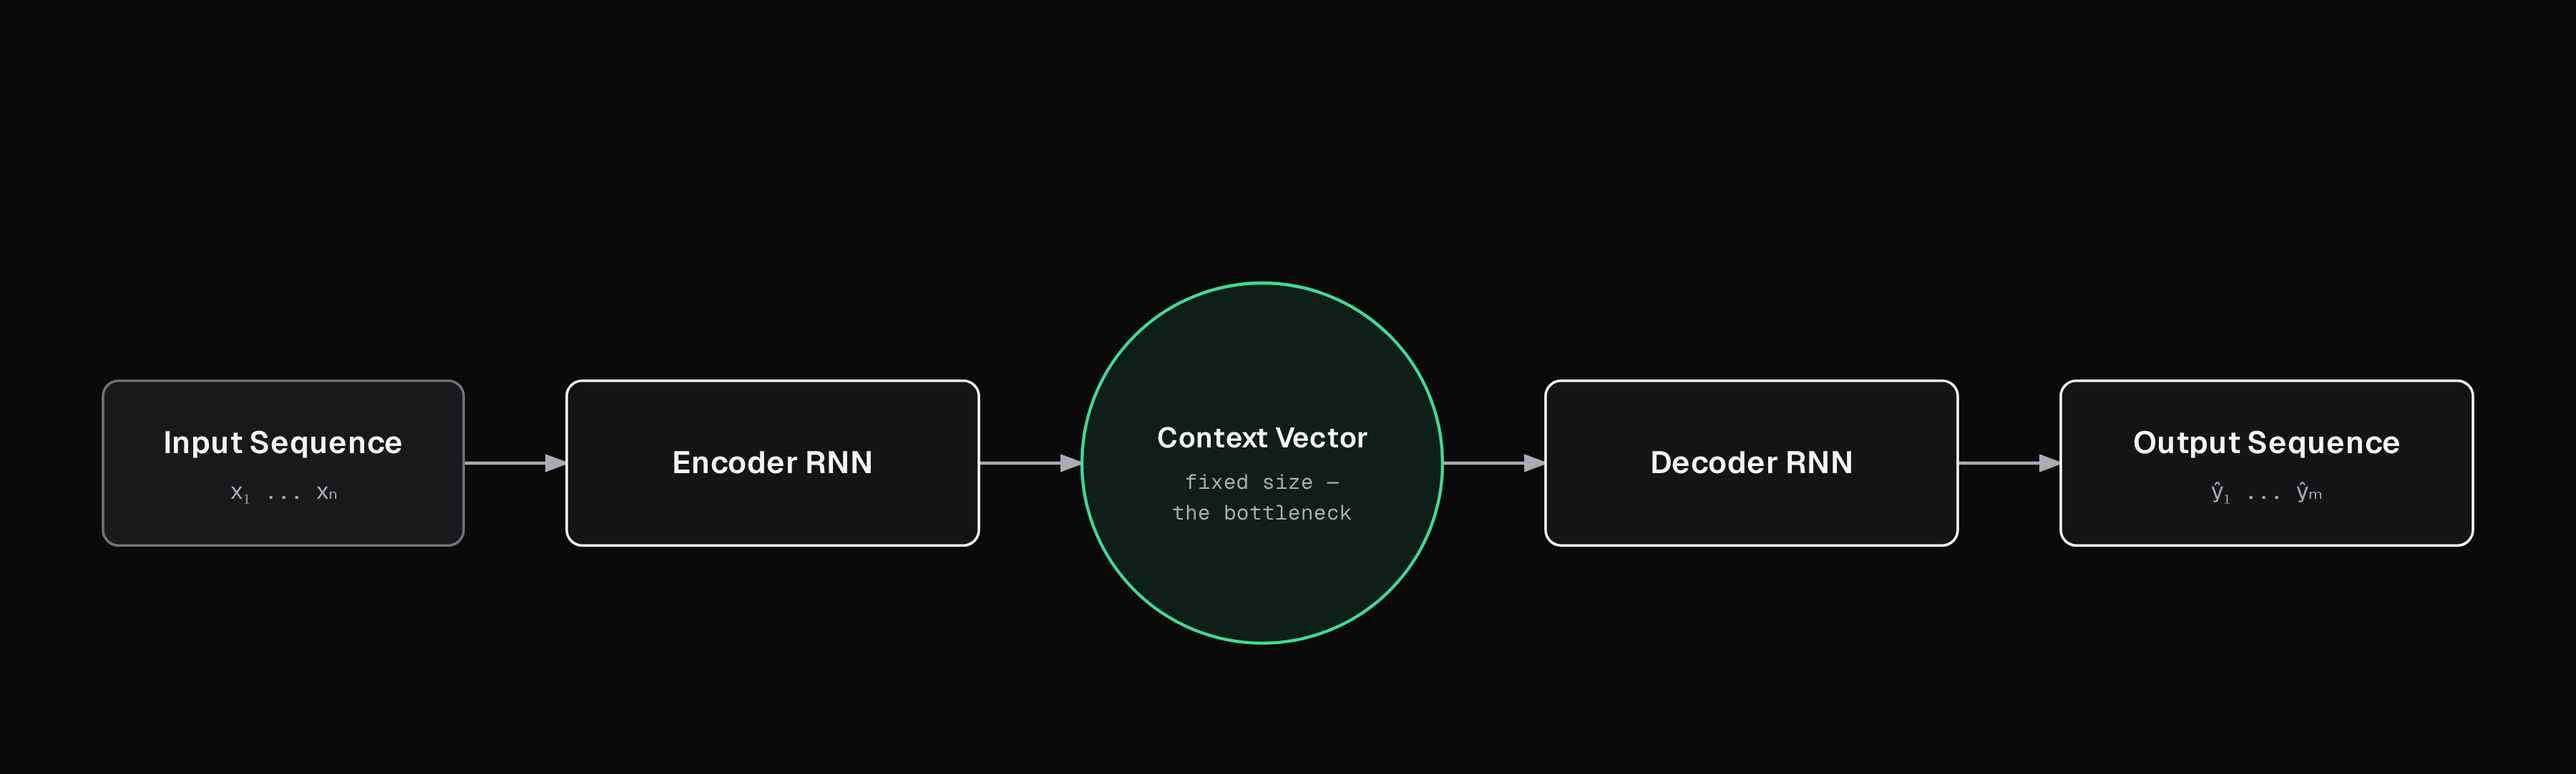
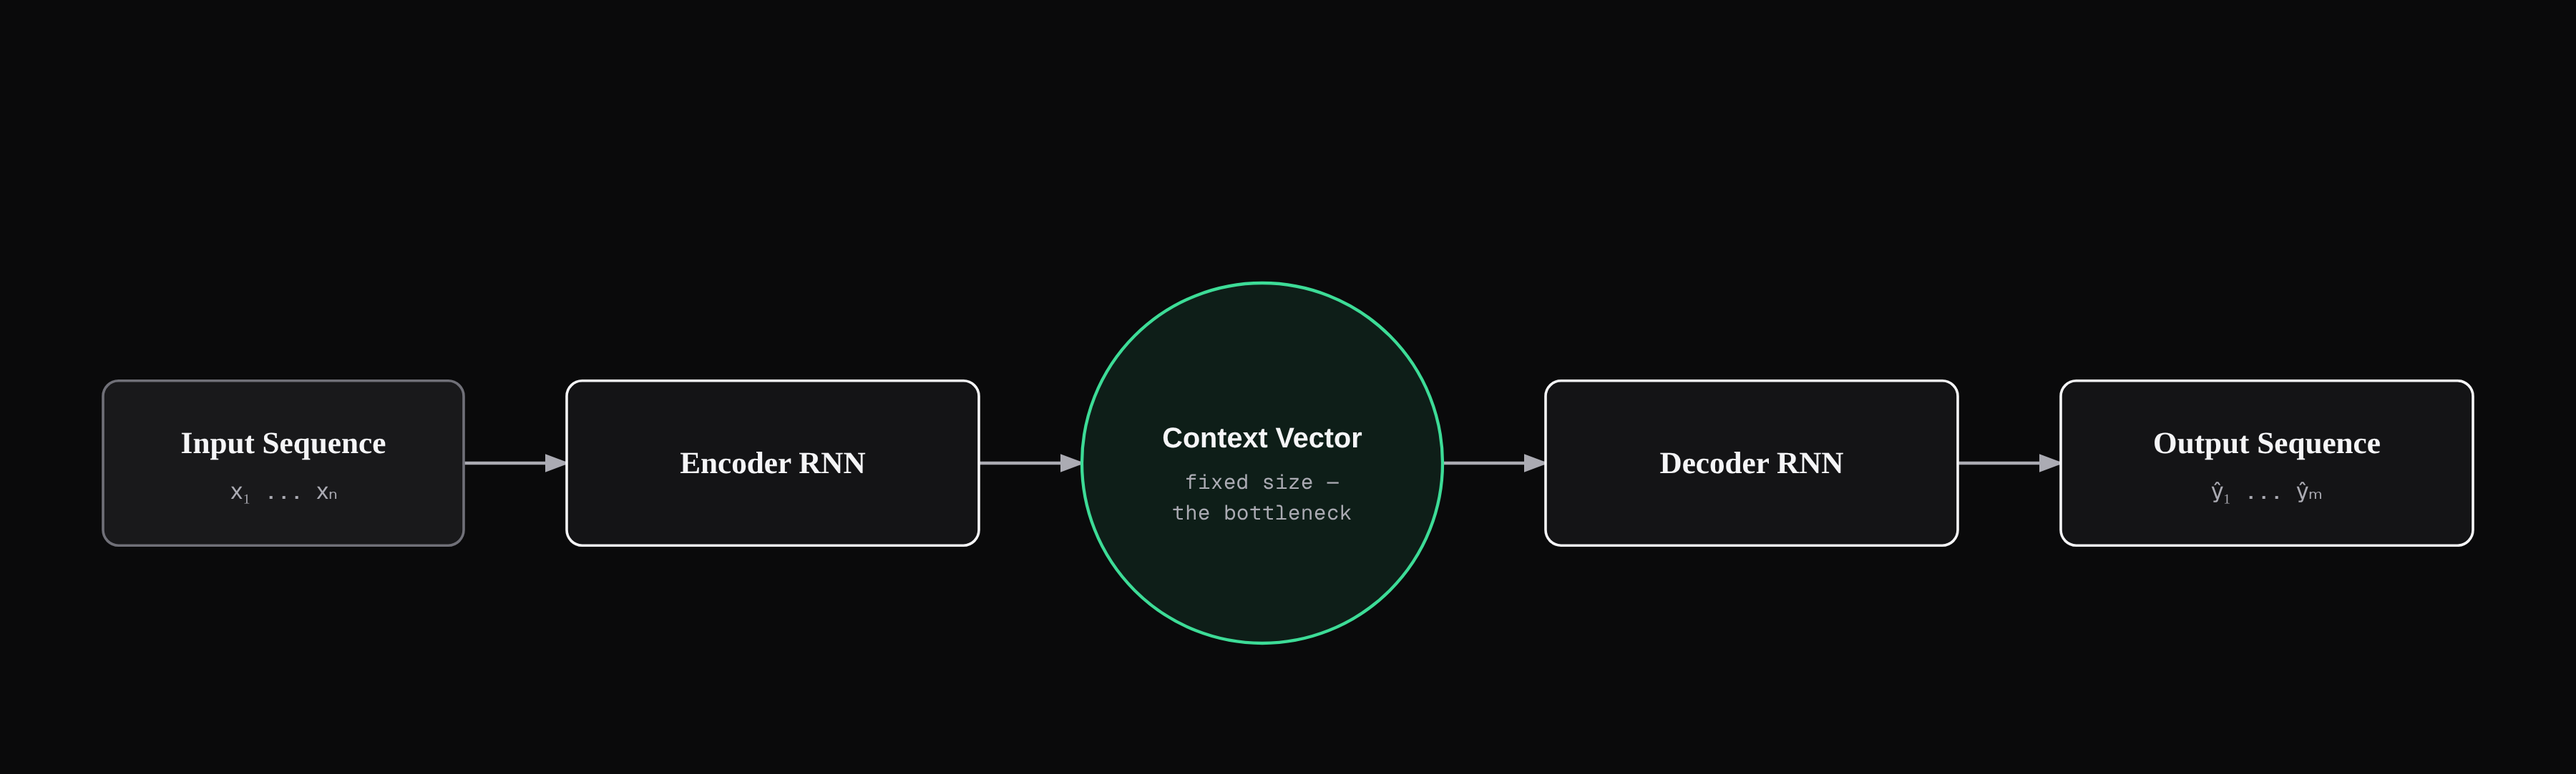
Make every diagram theme-aware via ThemedImage
Diagrams were always rendered on a fixed near-black canvas, so in
light mode (the site's white page) every diagram appeared as a
mismatched solid-black rectangle -- hard to read on an actual
screen, not just a stylistic mismatch. All 15 diagram-design images
now ship light + dark PNGs (generated from the site's own brand
tokens, see neuralmastery-visualize@6c13fdd) and are wired through
Docusaurus's ThemedImage component, so each one matches whichever
theme the reader has active, the same way the rest of the page does.

diff --git a/docs/deep-learning/sequence-models.md b/docs/deep-learning/sequence-models.md
@@ -2,6 +2,18 @@
 sidebar_position: 6
 ---
 
+import ThemedImage from '@theme/ThemedImage';
+import rnnUnrolledDark from './img/rnn-unrolled.png';
+import rnnUnrolledLight from './img/rnn-unrolled-light.png';
+import lstmCellDark from './img/lstm-cell.png';
+import lstmCellLight from './img/lstm-cell-light.png';
+import gruCellDark from './img/gru-cell.png';
+import gruCellLight from './img/gru-cell-light.png';
+import seq2seqEncDecDark from './img/seq2seq-encoder-decoder.png';
+import seq2seqEncDecLight from './img/seq2seq-encoder-decoder-light.png';
+import seq2seqAttnDark from './img/seq2seq-attention.png';
+import seq2seqAttnLight from './img/seq2seq-attention-light.png';
+
 # Sequence Models
 
 Text, audio, time series, DNA — anywhere order carries meaning, you need an architecture that processes sequences, not fixed-size independent inputs.
@@ -31,7 +43,7 @@ $$h_t = \tanh\left(W_h h_{t-1} + W_x x_t + b\right)$$
 
 The same weight matrices $W_h$, $W_x$, $b$ are reused at *every* time step — this weight sharing is what lets an RNN handle sequences of any length with a fixed number of parameters, and it's also exactly why gradients have to flow through so many repeated multiplications during training (below). In principle, this lets information from any earlier point in the sequence influence later predictions.
 
-![RNN unrolled through time — the same cell and weights reused at every step, with the hidden state carried forward](./img/rnn-unrolled.png)
+<ThemedImage alt="RNN unrolled through time — the same cell and weights reused at every step, with the hidden state carried forward" sources={{light: rnnUnrolledLight, dark: rnnUnrolledDark}} />
 
 **The vanishing gradient problem, again**: because the same weights are applied repeatedly across many time steps, gradients during backpropagation-through-time shrink (or explode) even faster than in a deep feedforward network (see [Training Deep Networks](./training-deep-networks.md)). In practice, plain RNNs struggle to remember anything more than ~10-20 steps back.
 
@@ -65,7 +77,7 @@ $$h_t = o_t \odot \tanh(c_t)$$
 
 where $[h_{t-1}, x_t]$ is the previous hidden state concatenated with the current input, and $\odot$ is the **Hadamard (elementwise) product** — each gate is a vector of values in $(0,1)$ that scales its target *elementwise*, not a full matrix multiply. Read the new-cell-state and new-hidden-state lines directly as the whole mechanism: the forget gate decides how much of the old cell state to keep, the input gate decides how much of the new candidate to add — both are $\sigma$-gated so each is a soft "keep this fraction" decision per dimension, computed fresh every time step by the gates above.
 
-![LSTM cell — forget, input, and output gates controlling what's added to, kept in, and read from the cell state](./img/lstm-cell.png)
+<ThemedImage alt="LSTM cell — forget, input, and output gates controlling what's added to, kept in, and read from the cell state" sources={{light: lstmCellLight, dark: lstmCellDark}} />
 
 **GRU (Gated Recurrent Unit)** simplifies LSTM's gating into two gates instead of three (reset and update, no separate cell state), with fewer parameters and often comparable performance — a common practical choice when compute is limited:
 
@@ -87,13 +99,13 @@ $$h_t = (1 - z_t) \odot h_{t-1} + z_t \odot \tilde{h}_t$$
 
 The last line is a direct interpolation between the old hidden state and the new candidate, controlled entirely by $z_t$ — no separate cell state to maintain, which is exactly where GRU's parameter savings come from. The reset gate $r_t$ decides how much of the *old* hidden state gets used when computing the new candidate in the first place.
 
-![GRU cell — a reset gate and an update gate interpolating between the old hidden state and a new candidate](./img/gru-cell.png)
+<ThemedImage alt="GRU cell — a reset gate and an update gate interpolating between the old hidden state and a new candidate" sources={{light: gruCellLight, dark: gruCellDark}} />
 
 ## Sequence-to-Sequence Models
 
 For tasks where both input and output are sequences of different lengths (translation, summarization): an **encoder** RNN compresses the input sequence into a fixed representation, and a **decoder** RNN generates the output sequence from that representation, one token at a time.
 
-![Sequence-to-sequence: an encoder RNN compresses the whole input into one fixed-size context vector, which a decoder RNN then unpacks](./img/seq2seq-encoder-decoder.png)
+<ThemedImage alt="Sequence-to-sequence: an encoder RNN compresses the whole input into one fixed-size context vector, which a decoder RNN then unpacks" sources={{light: seq2seqEncDecLight, dark: seq2seqEncDecDark}} />
 
 **The bottleneck problem**: compressing an entire input sequence into one fixed-size vector loses information, especially for long sequences — no matter how long the input is, it has to fit through that same single vector.
 
@@ -101,7 +113,7 @@ For tasks where both input and output are sequences of different lengths (transl
 
 The direct fix, and the direct predecessor to the Transformer: instead of forcing the encoder to compress everything into one fixed-size context vector, let the decoder look back at *all* encoder hidden states directly, at every output step, weighted by relevance to what it's generating right now.
 
-![Sequence-to-sequence with attention — the decoder computes a fresh weighted combination of every encoder state at each output step, instead of relying on one fixed summary](./img/seq2seq-attention.png)
+<ThemedImage alt="Sequence-to-sequence with attention — the decoder computes a fresh weighted combination of every encoder state at each output step, instead of relying on one fixed summary" sources={{light: seq2seqAttnLight, dark: seq2seqAttnDark}} />
 
 This is the **Bahdanau/Luong attention** mechanism: at each decoder step, score the current decoder state against every encoder state, turn those scores into weights (softmax), and take a weighted sum of the encoder states as that step's context — recomputed fresh every step, so the decoder can effectively "look at" whichever part of the input matters most for the token it's producing right now. This architecture is what proved attention works, before the 2017 "Attention Is All You Need" paper removed the RNN entirely and built a model out of attention alone (see [Attention & Transformers](./attention-transformers.md)).
 

diff --git a/docs/machine-learning/linear-regression.md b/docs/machine-learning/linear-regression.md
@@ -4,6 +4,11 @@ sidebar_position: 4.5
 
 import LinearRegressionStudio from '@site/src/components/viz/LinearRegressionStudio';
 import PredictFirst from '@site/src/components/viz/primitives/PredictFirst';
+import ThemedImage from '@theme/ThemedImage';
+import trainingLoopDark from './img/linear-regression-training-loop.png';
+import trainingLoopLight from './img/linear-regression-training-loop-light.png';
+import twoPathsDark from './img/linear-regression-two-paths.png';
+import twoPathsLight from './img/linear-regression-two-paths-light.png';
 
 # Linear Regression, In Full Depth
 
@@ -128,7 +133,7 @@ $$w \leftarrow w - \alpha \frac{\partial J}{\partial w} \qquad\qquad b \leftarro
 
 where $\alpha$ is the learning rate (see [Calculus & Optimization](../mathematics-for-ai/calculus-optimization.md#gradient-descent-and-its-variants)). The full loop:
 
-![Linear regression gradient descent training loop](./img/linear-regression-training-loop.png)
+<ThemedImage alt="Linear regression gradient descent training loop" sources={{light: trainingLoopLight, dark: trainingLoopDark}} />
 
 Because $J$ is convex, this loop is guaranteed to converge to the global minimum (not just *a* minimum) as long as $\alpha$ is small enough — no local-minima concerns here, unlike the non-convex loss surfaces in [Deep Learning](../deep-learning/roadmap.md).
 
@@ -136,7 +141,7 @@ Switch the [Studio](#what-is-linear-regression) above to **Gradient Descent Lab*
 
 ## 7. Closed-Form vs. Gradient Descent
 
-![Two paths to the same minimum — normal equation vs gradient descent](./img/linear-regression-two-paths.png)
+<ThemedImage alt="Two paths to the same minimum — normal equation vs gradient descent" sources={{light: twoPathsLight, dark: twoPathsDark}} />
 
 | | Normal equation | Gradient descent |
 |---|---|---|

diff --git a/docs/agents/mcp/overview.md b/docs/agents/mcp/overview.md
@@ -2,6 +2,10 @@
 sidebar_position: 1
 ---
 
+import ThemedImage from '@theme/ThemedImage';
+import mcpArchDark from '../img/mcp-architecture.png';
+import mcpArchLight from '../img/mcp-architecture-light.png';
+
 # MCP (Model Context Protocol)
 
 Before MCP, every AI application that wanted to connect an LLM to a tool (a database, a file system, a SaaS API) had to write custom integration code for that specific tool, for that specific application. MCP standardizes the interface so tools and applications can be built independently and still work together.
@@ -13,7 +17,7 @@ MCP defines a standard protocol between two roles:
 - **MCP servers** expose capabilities — tools the model can call, resources (data) it can read, and prompt templates — over a standard interface.
 - **MCP clients** (typically the AI application, e.g. an IDE or agent framework) connect to one or more MCP servers and make their capabilities available to the LLM, without needing custom code per server.
 
-![MCP architecture: one AI application connecting to multiple MCP servers, each exposing tools, resources, and prompts](../img/mcp-architecture.png)
+<ThemedImage alt="MCP architecture: one AI application connecting to multiple MCP servers, each exposing tools, resources, and prompts" sources={{light: mcpArchLight, dark: mcpArchDark}} />
 
 This is analogous to what USB-C did for device connectors, or what LSP (Language Server Protocol) did for code editors and language tooling — a shared interface so an $M \times N$ integration problem (every app × every tool) becomes an $M + N$ problem (every app supports MCP; every tool exposes an MCP server).
 

diff --git a/docs/deep-learning/autoencoders.md b/docs/deep-learning/autoencoders.md
@@ -2,13 +2,17 @@
 sidebar_position: 8.5
 ---
 
+import ThemedImage from '@theme/ThemedImage';
+import autoencoderDark from './img/autoencoder-architecture.png';
+import autoencoderLight from './img/autoencoder-architecture-light.png';
+
 # Autoencoders & Variational Autoencoders, In Full Depth
 
 Every model in [Deep Learning](./roadmap.md) so far has been supervised — trained against labels. Autoencoders learn from data with no labels at all, using a strikingly simple trick: train a network to reconstruct its own input, and force the information through a narrow bottleneck along the way.
 
 ## The Autoencoder Architecture
 
-![Autoencoder: an encoder compresses input into a low-dimensional latent code, a decoder reconstructs it, and reconstruction error is the training signal](./img/autoencoder-architecture.png)
+<ThemedImage alt="Autoencoder: an encoder compresses input into a low-dimensional latent code, a decoder reconstructs it, and reconstruction error is the training signal" sources={{light: autoencoderLight, dark: autoencoderDark}} />
 
 Two halves: an **encoder** compresses the input $\mathbf{x}$ down to a low-dimensional **latent code** $\mathbf{z}$ (the bottleneck), and a **decoder** tries to reconstruct the original input from just that compressed code, $\hat{\mathbf{x}}$. Trained by minimizing reconstruction error — typically [MSE](../deep-learning/loss-functions.md#regression-losses) for continuous data — with no labels involved anywhere.
 

diff --git a/docs/llms-genai/rag.md b/docs/llms-genai/rag.md
@@ -4,6 +4,9 @@ sidebar_position: 6
 
 import RagPipelineSimulator from '@site/src/components/viz/RagPipelineSimulator';
 import EmbeddingSpaceExplorer from '@site/src/components/viz/EmbeddingSpaceExplorer';
+import ThemedImage from '@theme/ThemedImage';
+import ragPipelineDark from './img/rag-pipeline.png';
+import ragPipelineLight from './img/rag-pipeline-light.png';
 
 # Retrieval-Augmented Generation (RAG)
 
@@ -15,7 +18,7 @@ An LLM's knowledge is frozen at training time and limited to what fit in its wei
 2. **Retrieve**: embed the user's query the same way, find the most similar chunks (nearest-neighbor search by cosine similarity — see [Linear Algebra](../mathematics-for-ai/linear-algebra.md)).
 3. **Generate**: feed the retrieved chunks into the LLM's context alongside the query, and let it generate an answer grounded in that retrieved content.
 
-![RAG pipeline: offline indexing of documents into a vector DB, and query-time retrieval feeding the LLM](./img/rag-pipeline.png)
+<ThemedImage alt="RAG pipeline: offline indexing of documents into a vector DB, and query-time retrieval feeding the LLM" sources={{light: ragPipelineLight, dark: ragPipelineDark}} />
 
 Click any node below for what it does, then type a real question and watch retrieval actually run — real chunking, real cosine-similarity ranking, a real (if simplified) reranking pass:
 

diff --git a/docs/agents/agent-architectures.md b/docs/agents/agent-architectures.md
@@ -3,6 +3,9 @@ sidebar_position: 4
 ---
 
 import AgentExecutionGraph from '@site/src/components/viz/AgentExecutionGraph';
+import ThemedImage from '@theme/ThemedImage';
+import reactLoopDark from './img/react-loop.png';
+import reactLoopLight from './img/react-loop-light.png';
 
 # Agent Architectures
 
@@ -12,7 +15,7 @@ Different ways to structure the loop between reasoning and acting, each with dif
 
 The foundational pattern: at each step, the model produces a short reasoning trace ("I need to find X"), then an action (a tool call), observes the result, and loops — reason, act, observe, reason, act, observe — until it has enough information to answer. Interleaving reasoning with action lets the model course-correct based on real results, rather than committing to a full plan upfront that might be wrong. See [Prompt Engineering — ReAct](../llms-genai/prompt-engineering.md#react-reasoning--acting) for the prompting technique this is built on.
 
-![ReAct loop: Thought, Action, Observation, repeating until enough information to answer](./img/react-loop.png)
+<ThemedImage alt="ReAct loop: Thought, Action, Observation, repeating until enough information to answer" sources={{light: reactLoopLight, dark: reactLoopDark}} />
 
 Step through a scripted example of the loop, one step at a time or on autoplay:
 

diff --git a/docs/deep-learning/attention-transformers.md b/docs/deep-learning/attention-transformers.md
@@ -3,6 +3,9 @@ sidebar_position: 7
 ---
 
 import AttentionStepThrough from '@site/src/components/viz/AttentionStepThrough';
+import ThemedImage from '@theme/ThemedImage';
+import attentionQkvDark from './img/attention-qkv.png';
+import attentionQkvLight from './img/attention-qkv-light.png';
 
 # Attention & Transformers
 
@@ -12,7 +15,7 @@ The architecture behind GPT, Claude, LLaMA, and essentially every modern large m
 
 For each token, the model computes three vectors via learned linear projections: a **Query** (what am I looking for), a **Key** (what do I contain, for others to find), and a **Value** (what do I actually offer if selected).
 
-![Self-attention: token embeddings produce Query, Key, and Value, which combine into a weighted output](./img/attention-qkv.png)
+<ThemedImage alt="Self-attention: token embeddings produce Query, Key, and Value, which combine into a weighted output" sources={{light: attentionQkvLight, dark: attentionQkvDark}} />
 
 Attention scores between token $i$ and token $j$ are computed as $Q_i \cdot K_j$ (a dot product — see [Linear Algebra](../mathematics-for-ai/linear-algebra.md)), scaled and passed through softmax to get weights, which are then used to compute a weighted sum of all Value vectors:
 

diff --git a/docs/mlops/data-engineering-and-versioning.md b/docs/mlops/data-engineering-and-versioning.md
@@ -2,13 +2,17 @@
 sidebar_position: 4
 ---
 
+import ThemedImage from '@theme/ThemedImage';
+import dataPipelineDark from './img/data-pipeline.png';
+import dataPipelineLight from './img/data-pipeline-light.png';
+
 # Data Engineering & Versioning
 
 MLOps starts with data, not models. A perfectly engineered training pipeline running on badly-sourced, unvalidated data produces a model that's precisely wrong.
 
 ## The Data Pipeline
 
-![Data source through ingestion, validation, transformation, storage, feature engineering, to training](./img/data-pipeline.png)
+<ThemedImage alt="Data source through ingestion, validation, transformation, storage, feature engineering, to training" sources={{light: dataPipelineLight, dark: dataPipelineDark}} />
 
 - **Data sources**: CSV/JSON/Parquet files, relational databases, REST APIs, object storage (S3-style), streaming systems (Kafka) — real production systems usually pull from several of these simultaneously.
 - **Ingestion**: getting data from the source into your system, on a schedule or continuously.

diff --git a/docs/machine-learning/decision-tree.md b/docs/machine-learning/decision-tree.md
@@ -3,6 +3,9 @@ sidebar_position: 5.1
 ---
 
 import DecisionBoundaryPlayground from '@site/src/components/viz/DecisionBoundaryPlayground';
+import ThemedImage from '@theme/ThemedImage';
+import treeStructureDark from './img/tree-structure.png';
+import treeStructureLight from './img/tree-structure-light.png';
 
 # Decision Trees, In Full Depth
 
@@ -12,7 +15,7 @@ Every model covered so far — [Linear](./linear-regression.md), [Ridge/Lasso](.
 
 A tree is a nested set of if/else rules learned directly from data, ending in a prediction:
 
-![A depth-2 decision tree asking sequential yes/no questions](./img/tree-structure.png)
+<ThemedImage alt="A depth-2 decision tree asking sequential yes/no questions" sources={{light: treeStructureLight, dark: treeStructureDark}} />
 
 Each internal node asks a single-feature question ("Hours Studied > 5?"), each branch is an answer, and each leaf is a prediction. To predict for a new example, walk down from the root, answering each question, until reaching a leaf.
 

diff --git a/docs/ml-system-design/the-9-step-framework.md b/docs/ml-system-design/the-9-step-framework.md
@@ -2,11 +2,15 @@
 sidebar_position: 3
 ---
 
+import ThemedImage from '@theme/ThemedImage';
+import nineStepDark from './img/nine-step-framework.png';
+import nineStepLight from './img/nine-step-framework-light.png';
+
 # The 9-Step ML System Design Framework
 
 A repeatable structure for approaching any "design an ML system for X" problem — in an interview or in a real project kickoff.
 
-![The 9-step ML system design framework, from problem formulation through scaling and monitoring, with a feedback loop back to model development](./img/nine-step-framework.png)
+<ThemedImage alt="The 9-step ML system design framework, from problem formulation through scaling and monitoring, with a feedback loop back to model development" sources={{light: nineStepLight, dark: nineStepDark}} />
 
 ## 1. Problem Formulation
 
